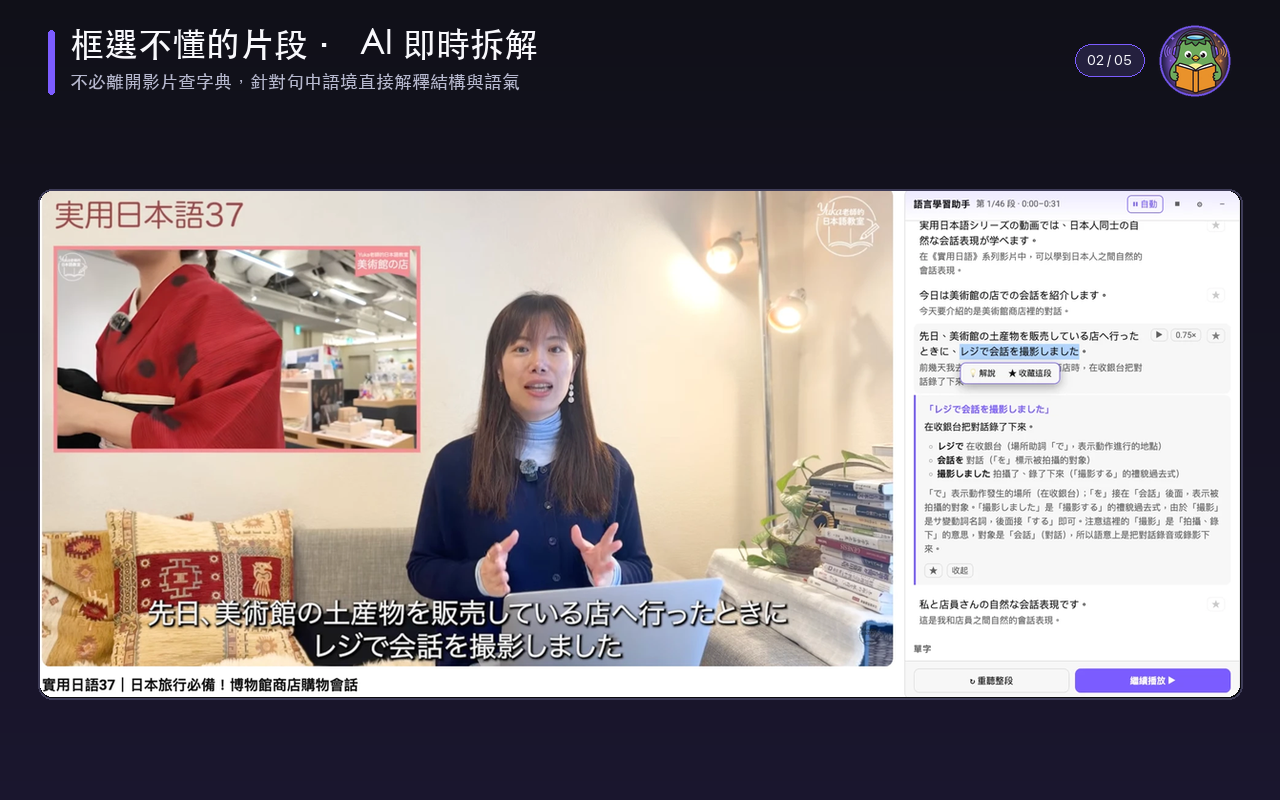
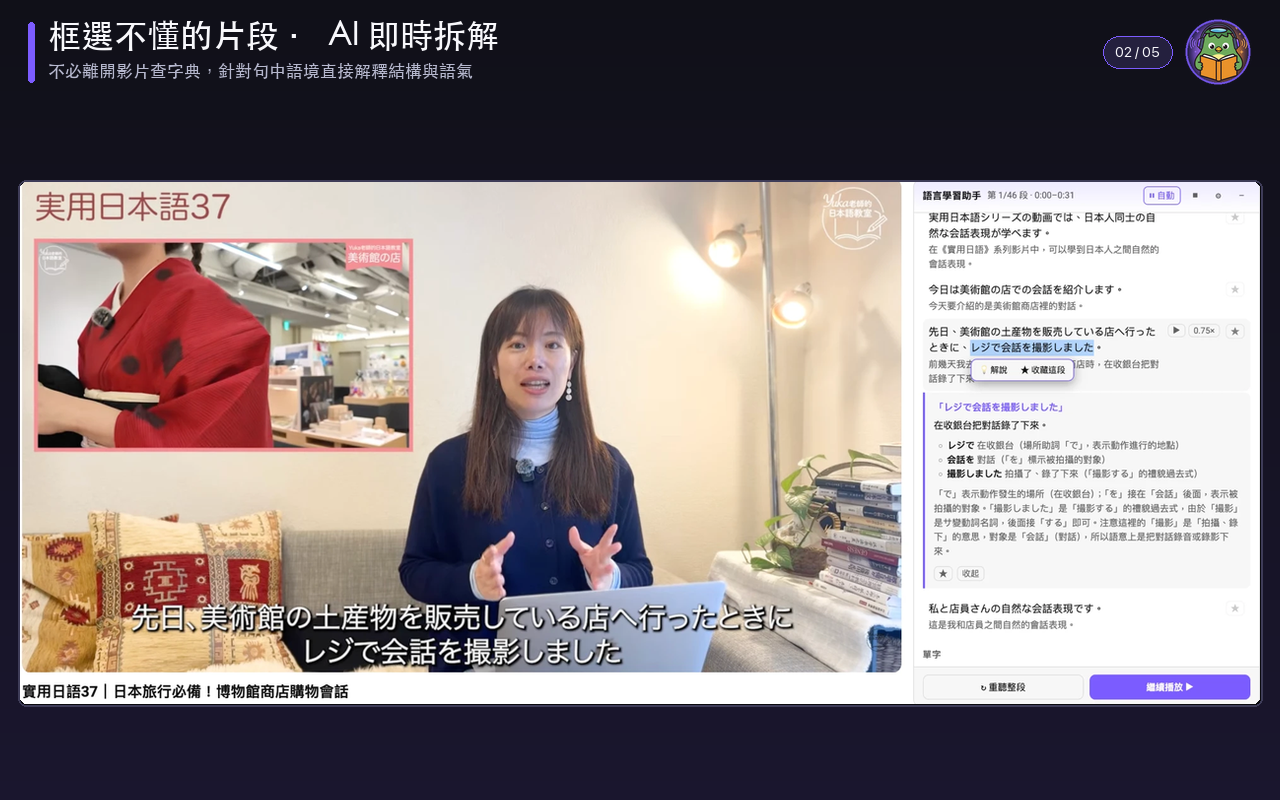
2.0.0：商店文案與展示截圖重做
詳細說明的開頭改掉——原本一上來先講「別人家都是雙字幕＋點字查字典」，
把競品的做法擺在自己的賣點前面。改成直接講讀者的處境（不必邊聽邊查字典
打斷節奏），賣點放第一句。

展示截圖五張全部重產，宣傳圖的備註也更新：底圖改用生圖模型產的無字河童
插畫（store/promo-mascot-bg.png），文字仍然由 store/make-promo.py 疊上去，
不讓生圖模型自己寫字——它會寫出不存在的單字。

版號 1.1.0 從未上傳商店，直接進 2.0.0。

Changed region(s): [[0.0, 0.2188, 1.0, 0.9062], [0.0, 0.0312, 0.4375, 0.125], [0.8438, 0.0, 1.0, 0.125]]

diff --git a/store/make-store-cards.py b/store/make-store-cards.py
@@ -80,29 +80,29 @@ def make_card(idx, title, subtitle, crop_img, badge_kind):
     im = gradient_bg()
     d = ImageDraw.Draw(im)
 
-    # Top header
-    pad_x = 48
-    d.rounded_rectangle((pad_x, 30, pad_x + 6, 94), radius=3, fill=ACCENT)
-    d.text((pad_x + 22, 26), title, font=f_cjk(34), fill=FG)
-    d.text((pad_x + 22, 72), subtitle, font=f_cjk(18), fill=DIM)
+    # Top header (compact so screenshot fills more of 1280x800)
+    pad_x = 28
+    d.rounded_rectangle((pad_x, 22, pad_x + 6, 82), radius=3, fill=ACCENT)
+    d.text((pad_x + 20, 18), title, font=f_cjk(33), fill=FG)
+    d.text((pad_x + 20, 62), subtitle, font=f_cjk(17), fill=DIM)
 
     # Right cute kappa mascot badge + index pill
-    badge = make_badge(badge_kind, 74)
+    badge = make_badge(badge_kind, 68)
     bx = W - pad_x - badge.width
-    by = 24
+    by = 18
     im.paste(badge, (bx, by), badge)
 
     pill_txt = f'0{idx} / 05'
     pf = f_en(14)
     pb = pf.getbbox(pill_txt)
     pw = (pb[2] - pb[0]) + 24
-    px = bx - 14 - pw
-    d.rounded_rectangle((px, 44, px + pw, 76), radius=16, fill=(36, 32, 62), outline=ACCENT, width=1)
-    d.text((px + 12, 51), pill_txt, font=pf, fill=FG)
+    px = bx - 12 - pw
+    d.rounded_rectangle((px, 36, px + pw, 68), radius=16, fill=(36, 32, 62), outline=ACCENT, width=1)
+    d.text((px + 12, 43), pill_txt, font=pf, fill=FG)
 
-    # Framed content area
-    box_x, box_y = 40, 118
-    box_w, box_h = W - 80, H - 148
+    # Framed content area (near full-bleed for crisp readability)
+    box_x, box_y = 20, 102
+    box_w, box_h = W - 40, H - 118
     scale = min(box_w / crop_img.width, box_h / crop_img.height)
     nw, nh = round(crop_img.width * scale), round(crop_img.height * scale)
     resized = crop_img.resize((nw, nh), Image.LANCZOS)
@@ -110,9 +110,8 @@ def make_card(idx, title, subtitle, crop_img, badge_kind):
     fx = box_x + (box_w - nw) // 2
     fy = box_y + (box_h - nh) // 2
 
-    # Soft shadow + rounded border
-    d.rounded_rectangle((fx - 2, fy - 2, fx + nw + 2, fy + nh + 2), radius=14, fill=(10, 10, 15), outline=CARD_BORDER, width=2)
-    mask = round_mask(nw, nh, 12)
+    d.rounded_rectangle((fx - 2, fy - 2, fx + nw + 2, fy + nh + 2), radius=8, fill=(10, 10, 15), outline=CARD_BORDER, width=2)
+    mask = round_mask(nw, nh, 6)
     im.paste(resized, (fx, fy), mask)
     return im
 

diff --git a/store/listing.md b/store/listing.md
@@ -27,10 +27,9 @@ Language Tutor in YouTube
 **詳細說明**（已整合新版強效開頭、統一 Anki 匯出、圖文申請教學與精簡設定說明，可直接複製貼入後台「說明 *」）
 
 ```
-市面上的 YouTube 語言擴充幾乎都是「雙字幕＋點字查字典」——邊聽邊停下來查字，聽力節奏就斷了，也只查得到字典定義，看不到整句的道地用法。
+看 YouTube 學外語時，不必再邊聽邊查字典打斷節奏——先完整聽完一段，再一次學完重點。
 
-這個擴充反過來做：讓你先完整聽完一段，再一次整理。
-影片每播放約 30 秒就自動暫停於句尾，整理出這段的單字、片語、文法重點，並帶你逐句複習；聽的時候不打斷，停下來的時候才學。
+這個擴充會在影片每播放約 30 秒時自動暫停於句尾，整理出這段的單字、片語、文法重點與逐句翻譯，並帶你一句一句跟讀複習；聽的時候專心輸入，停下來的時候才學。
 
 ■ 主要功能
 
@@ -153,57 +152,91 @@ https://github.com/UncleLin332/youtube-language-tutor/blob/main/PRIVACY.md
 那是商店列表上唯一能展示「自動暫停 → 筆記出現 → 收藏 → 匯出」這個流程的地方，
 靜態截圖講不出時間感。等審查通過之後再補，審查期間不要動商店列表。
 
-兩張宣傳圖都是 `store/make-promo.py` 排出來的，不是生圖模型畫的——生成的圖
-會在畫面裡寫出不存在的單字（試過一次，字幕那行變成
-`I active subtitles n active suitoos.`）。
+兩張宣傳圖使用 Nano Banana 生成無雜字的河童插畫底圖（`store/promo-mascot-bg.png`），再由 `store/make-promo.py`
+以演算法排版疊加銳利文字（避免生圖模型自己寫錯字）。
 
-跑馬燈那張商店規定 **JPEG 或 24 位元 PNG、不能有 alpha 透明層**。腳本的底圖
-用 RGB 模式建（不是 RGBA），河童貼上去時拿它自己的 alpha 當遮罩，貼完就沒有
-透明層了，最後再 assert 一次確認。
+跑馬燈與展示截圖皆規定 **JPEG 或 24 位元 PNG、不能有 alpha 透明層**，所有腳本皆以 `RGB` 模式輸出並經過 assert 檢查。
 
-排版遵守官方素材指引的兩條建議：**避免文字**（只有名稱和一行說明，沒有功能列表）
-和**縮到一半還要看得懂**（字級是演算法套出來的，不是寫死的，所以改字不會爆版）。
+排版遵守官方素材指引：**避免文字過多**（只有名稱與一行核心賣點）、**縮到一半還要看得懂**、**飽和色彩且少白灰底**，
+且不放 Chrome、YouTube、Anki 商標或假的「Add to Chrome」按鈕。
 
-圖裡不放 Chrome、YouTube、Anki 的標誌，也不放假的「Add to Chrome」按鈕——
-別人的商標用了要有授權，而那顆假按鈕使用者會想點但點不動。
+圖示四個尺寸已經做好（`icons/`），原圖是 `store/icon-source-2000.png`，商店圖示上傳 `icons/icon128.png`。
 
-圖示四個尺寸已經做好（河童讀書，四角已去背）。原圖是 `icon-source-2000.png`，
-要換圖就覆蓋它再跑 `python3 store/make-icons.py`。商店圖示直接上傳 `icons/icon128.png`。
-
-**截圖已經做好五張**（商店上限），在 `store/screenshots/`，按檔名順序上傳：
+**展示版截圖已經做好五張**（商店上限），位於 `store/showcase/`（並同步於 `dist/上傳用/商店展示版截圖/`），按檔名順序上傳：
 
 | 檔名 | 展示什麼 |
 |---|---|
-| `01-單字與片語整理.png` | 法文。逐句翻譯＋下方的單字卡（含詞性與用法說明）。資訊量最大，放第一張 |
-| `02-框選解說.png` | 日文。框選「レジで会話を撮影しました」之後逐詞拆解。一張圖同時做兩件事：證明不是只支援歐洲語言，並展示別的擴充沒有的功能 |
-| `03-日文也可以.png` | 日文的逐句對照與單字 |
-| `04-逐句複習與翻譯.png` | 整段的逐句對照，其中一句被選取、顯示 `▶` 與 `0.75×` |
-| `05-自動暫停的時刻.png` | 影片停在段落結尾、面板已經備好筆記的那一刻 |
+| `01-單字與片語整理.png` | 法文。逐句翻譯＋單字卡（讀書河童徽章） |
+| `02-框選解說.png` | 日文。框選句子片段後逐詞拆解，展現差異化功能（耳機河童徽章） |
+| `03-日文也可以.png` | 日文的逐句對照與單字（讀書河童徽章） |
+| `04-逐句複習與翻譯.png` | 逐句重播、`0.75×` 慢速跟讀與聽寫模式（耳機河童徽章） |
+| `05-匯出與圖文設定.png` | 新版 `2.0.0` 圖文 API 申請教學＋完成統計與匯出 Anki／Excel（咖啡河童徽章） |
 
-排第二的是解說而不是單純的日文畫面，因為「翻譯字幕」的擴充滿街都是，
-「框一段問它為什麼這樣說」才是會讓人裝下去的理由。
-
-原圖在 `store/screenshots/raw/`，`store/make-screenshots.py` 把它們裁成 1280×800
-並把兩個帳號頭像模糊掉。要加截圖的話，丟一張進 `raw/`、檔名開頭編號排好順序，
-重跑腳本就好。
-
-原圖之所以也進版控：處理過程會不可逆地裁切和縮放，沒有原圖的話，哪天商店改規格
-或想重新裁一次，就只能重拍。
-
-五張已經滿了。之後想換掉其中一張的話，最值得補的是「匯出的 Anki 檔在 Anki
-裡的樣子」——「能匯進 Anki」是會讓人決定安裝的功能，但光看文字沒有說服力。
-要換的話建議換掉 `05`，自動暫停那張是五張裡資訊量最低的。
-
-**設定頁那張不要拍**，或拍之前先把 API key 清空——那是唯一會洩漏東西的畫面。
+> 💡 `01`～`04` 的原始截圖位於 `store/screenshots/raw/`，為 `1.0.0` 舊版面板樣式。日後若實機用 `2.0.0` 重拍這 4 張放入 `raw/`，依序執行 `python3 store/make-screenshots.py` 與 `python3 store/make-store-cards.py` 即可自動更新整套 `1280×800` 展示圖。
 
 ---
 
 ## 4. 送審前的最後確認
 
-- [ ] `node test/run.js` 全綠
+- [x] `node test/run.js` 全綠（114 項測試＋語法＋manifest 檢查全過）
 - [x] 用真實 API key 完整跑過一支影片：啟動 → 暫停 → 筆記出現 → 收藏 → 匯出 ✅ 2026/11
 - [ ] 另一家供應商也切過去跑一次（審核員不會知道你平常只用哪一家）
-- [ ] `icons/` 已換成正式圖
+- [x] `icons/` 已換成正式圖
 - [ ] repo 已 public，隱私權政策網址無痕可開
-- [ ] `./package.sh` 產生的 zip 解開後確認沒有 `test/`、`.claude/`、`.git/`
-- [ ] 把 zip 以「載入未封裝項目」的方式再裝一次，確認功能正常（審核員就是這樣測的）
+- [x] `./package.sh` 已產出 `dist/youtube-language-tutor-2.0.0.zip`（白名單打包，不含 `test/`、`.git/`）
+- [ ] 把 `dist/youtube-language-tutor-2.0.0.zip` 解開後以「載入未封裝項目」在 Chrome 實測一次（審核員就是這樣測的）
+
+---
+
+## 5. 英文商店文案（選填 · 若要在 Chrome Web Store 新增 English 語系）
+
+**Name**
+```
+Language Tutor in YouTube
+```
+
+**Summary**（113 字元，符合 132 字元上限）
+```
+Auto-pause YouTube every 30s to organize vocabulary, phrases, and grammar notes—then review sentence by sentence.
+```
+
+**Description**
+```
+Learning languages on YouTube shouldn't mean pausing every three seconds to look up single words in a dictionary.
+
+Language Tutor in YouTube lets you listen first, then learn: the video automatically pauses at natural sentence endings roughly every 30 seconds, extracts key vocabulary, idioms, and grammar notes, and walks you through sentence-by-sentence review.
+
+■ Key Features
+
+- Auto-Pause by Segment: Automatically pauses every ~30s at sentence boundaries to summarize the clip (toggle Continuous Play anytime).
+- Sentence Review & Dictation: Click any sentence to replay it, slow down to 0.75x for shadowing, or blur transcripts for dictation practice.
+- Highlight to Explain: Select any phrase in a sentence to ask AI what it means and how it works in that exact context.
+- Bookmark & Export: Star words, phrases, sentences, or grammar notes across videos and export to Excel-ready CSV or ready-to-import Anki flashcards.
+- Background Prefetch: Prepares the next segment while you watch so review starts immediately when the video pauses.
+
+■ Before You Start
+
+- Bring your own API key (Google Gemini with a free tier, or Anthropic Claude—step-by-step visual setup guide included in Settings). Results are cached locally so rewatching never double-charges.
+- Requires videos with subtitles (YouTube auto-generated captions work too).
+- Supports 10 target languages: French, English, Japanese, Korean, Spanish, German, Italian, Portuguese, Chinese, and Russian.
+- Manual activation: Does nothing until you click "Start Learning" on a video or click the toolbar icon.
+
+■ Privacy
+
+No developer servers, no ads, and no tracking. Your API key, settings, wordbook, and cache stay locally in your browser. Captions are sent directly from your browser to your chosen AI provider only after you start a session.
+
+Open source: https://github.com/UncleLin332/youtube-language-tutor
+
+■ Support Development
+
+Free, open-source, and ad-free. If this tool helps you learn from YouTube videos, consider buying the kappa a coffee:
+https://ko-fi.com/kappa46122
+```
+
+**2.0.0 更新重點（供 GitHub Release 或備忘用）**
+```
+- 全新精簡側邊面板與設定頁介面，移除冗餘選項，保留最直覺的學習流程
+- 設定頁內建 Gemini 與 Claude API Key 互動式圖文申請教學
+- Anki 匯出統一為免設定兩欄格式，支援內建 Basic 牌組直接匯入
+- 新增可愛河童咖啡贊助卡片與摺疊式隱私說明
+```
